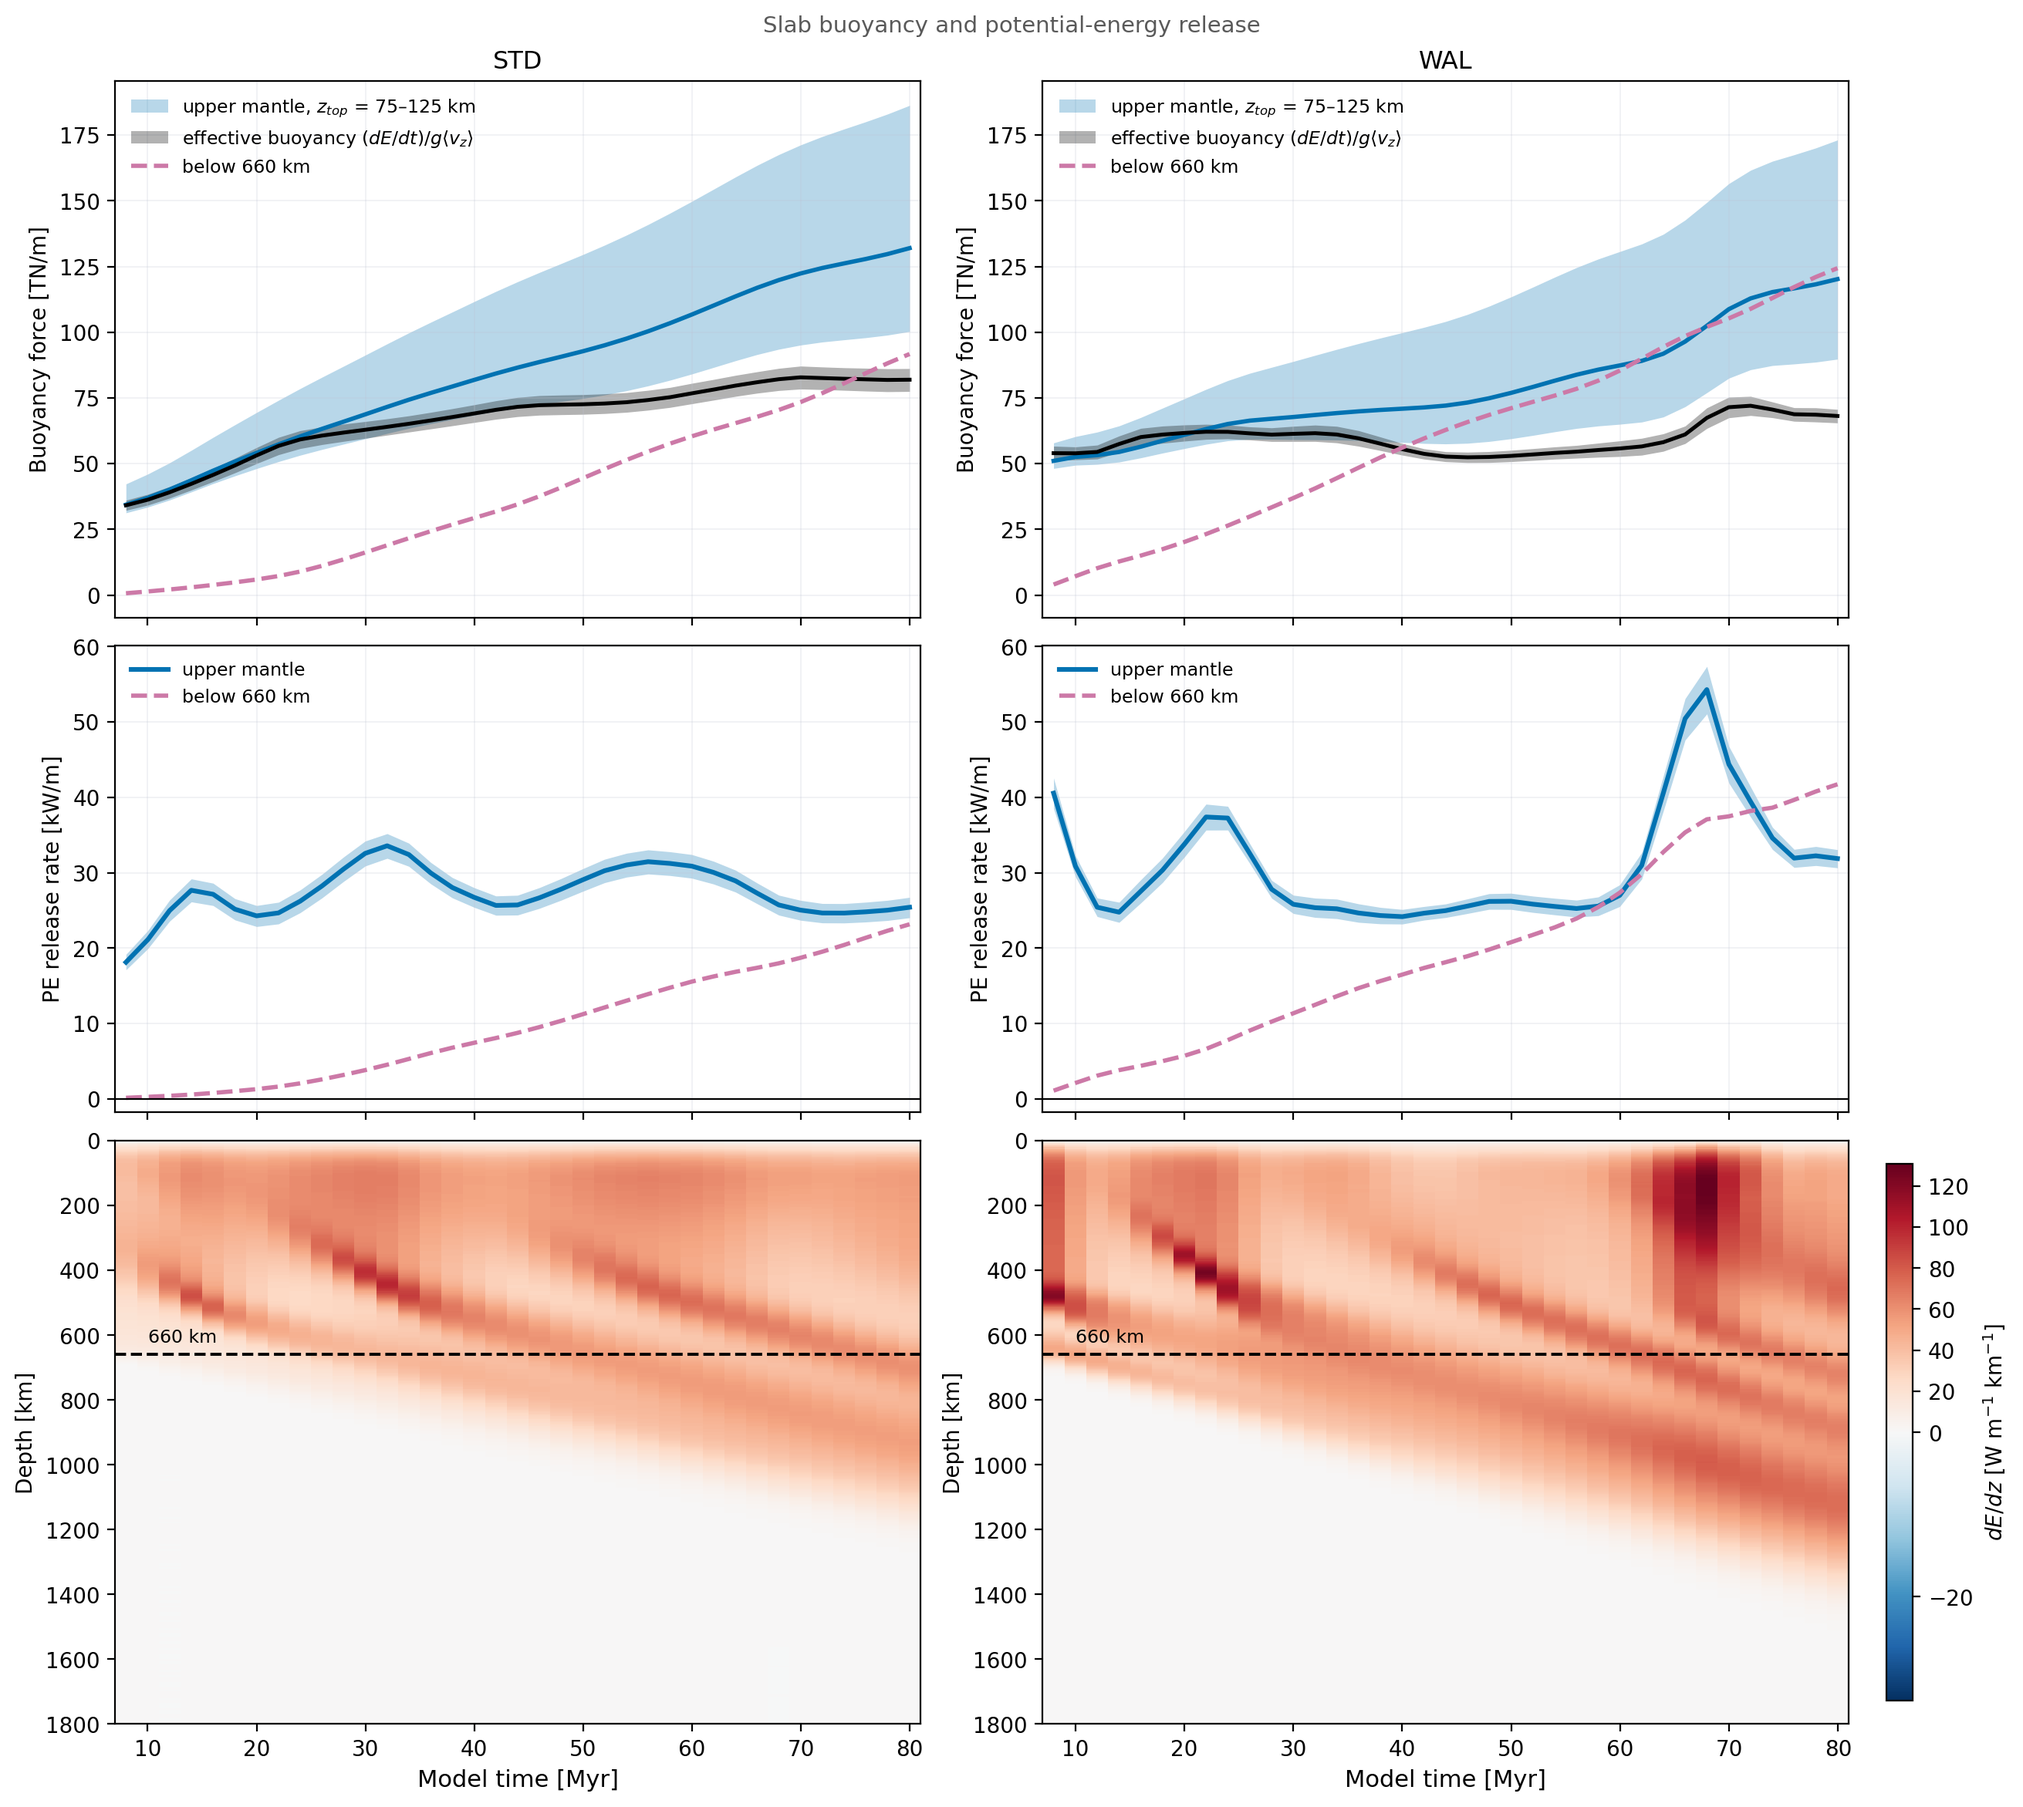
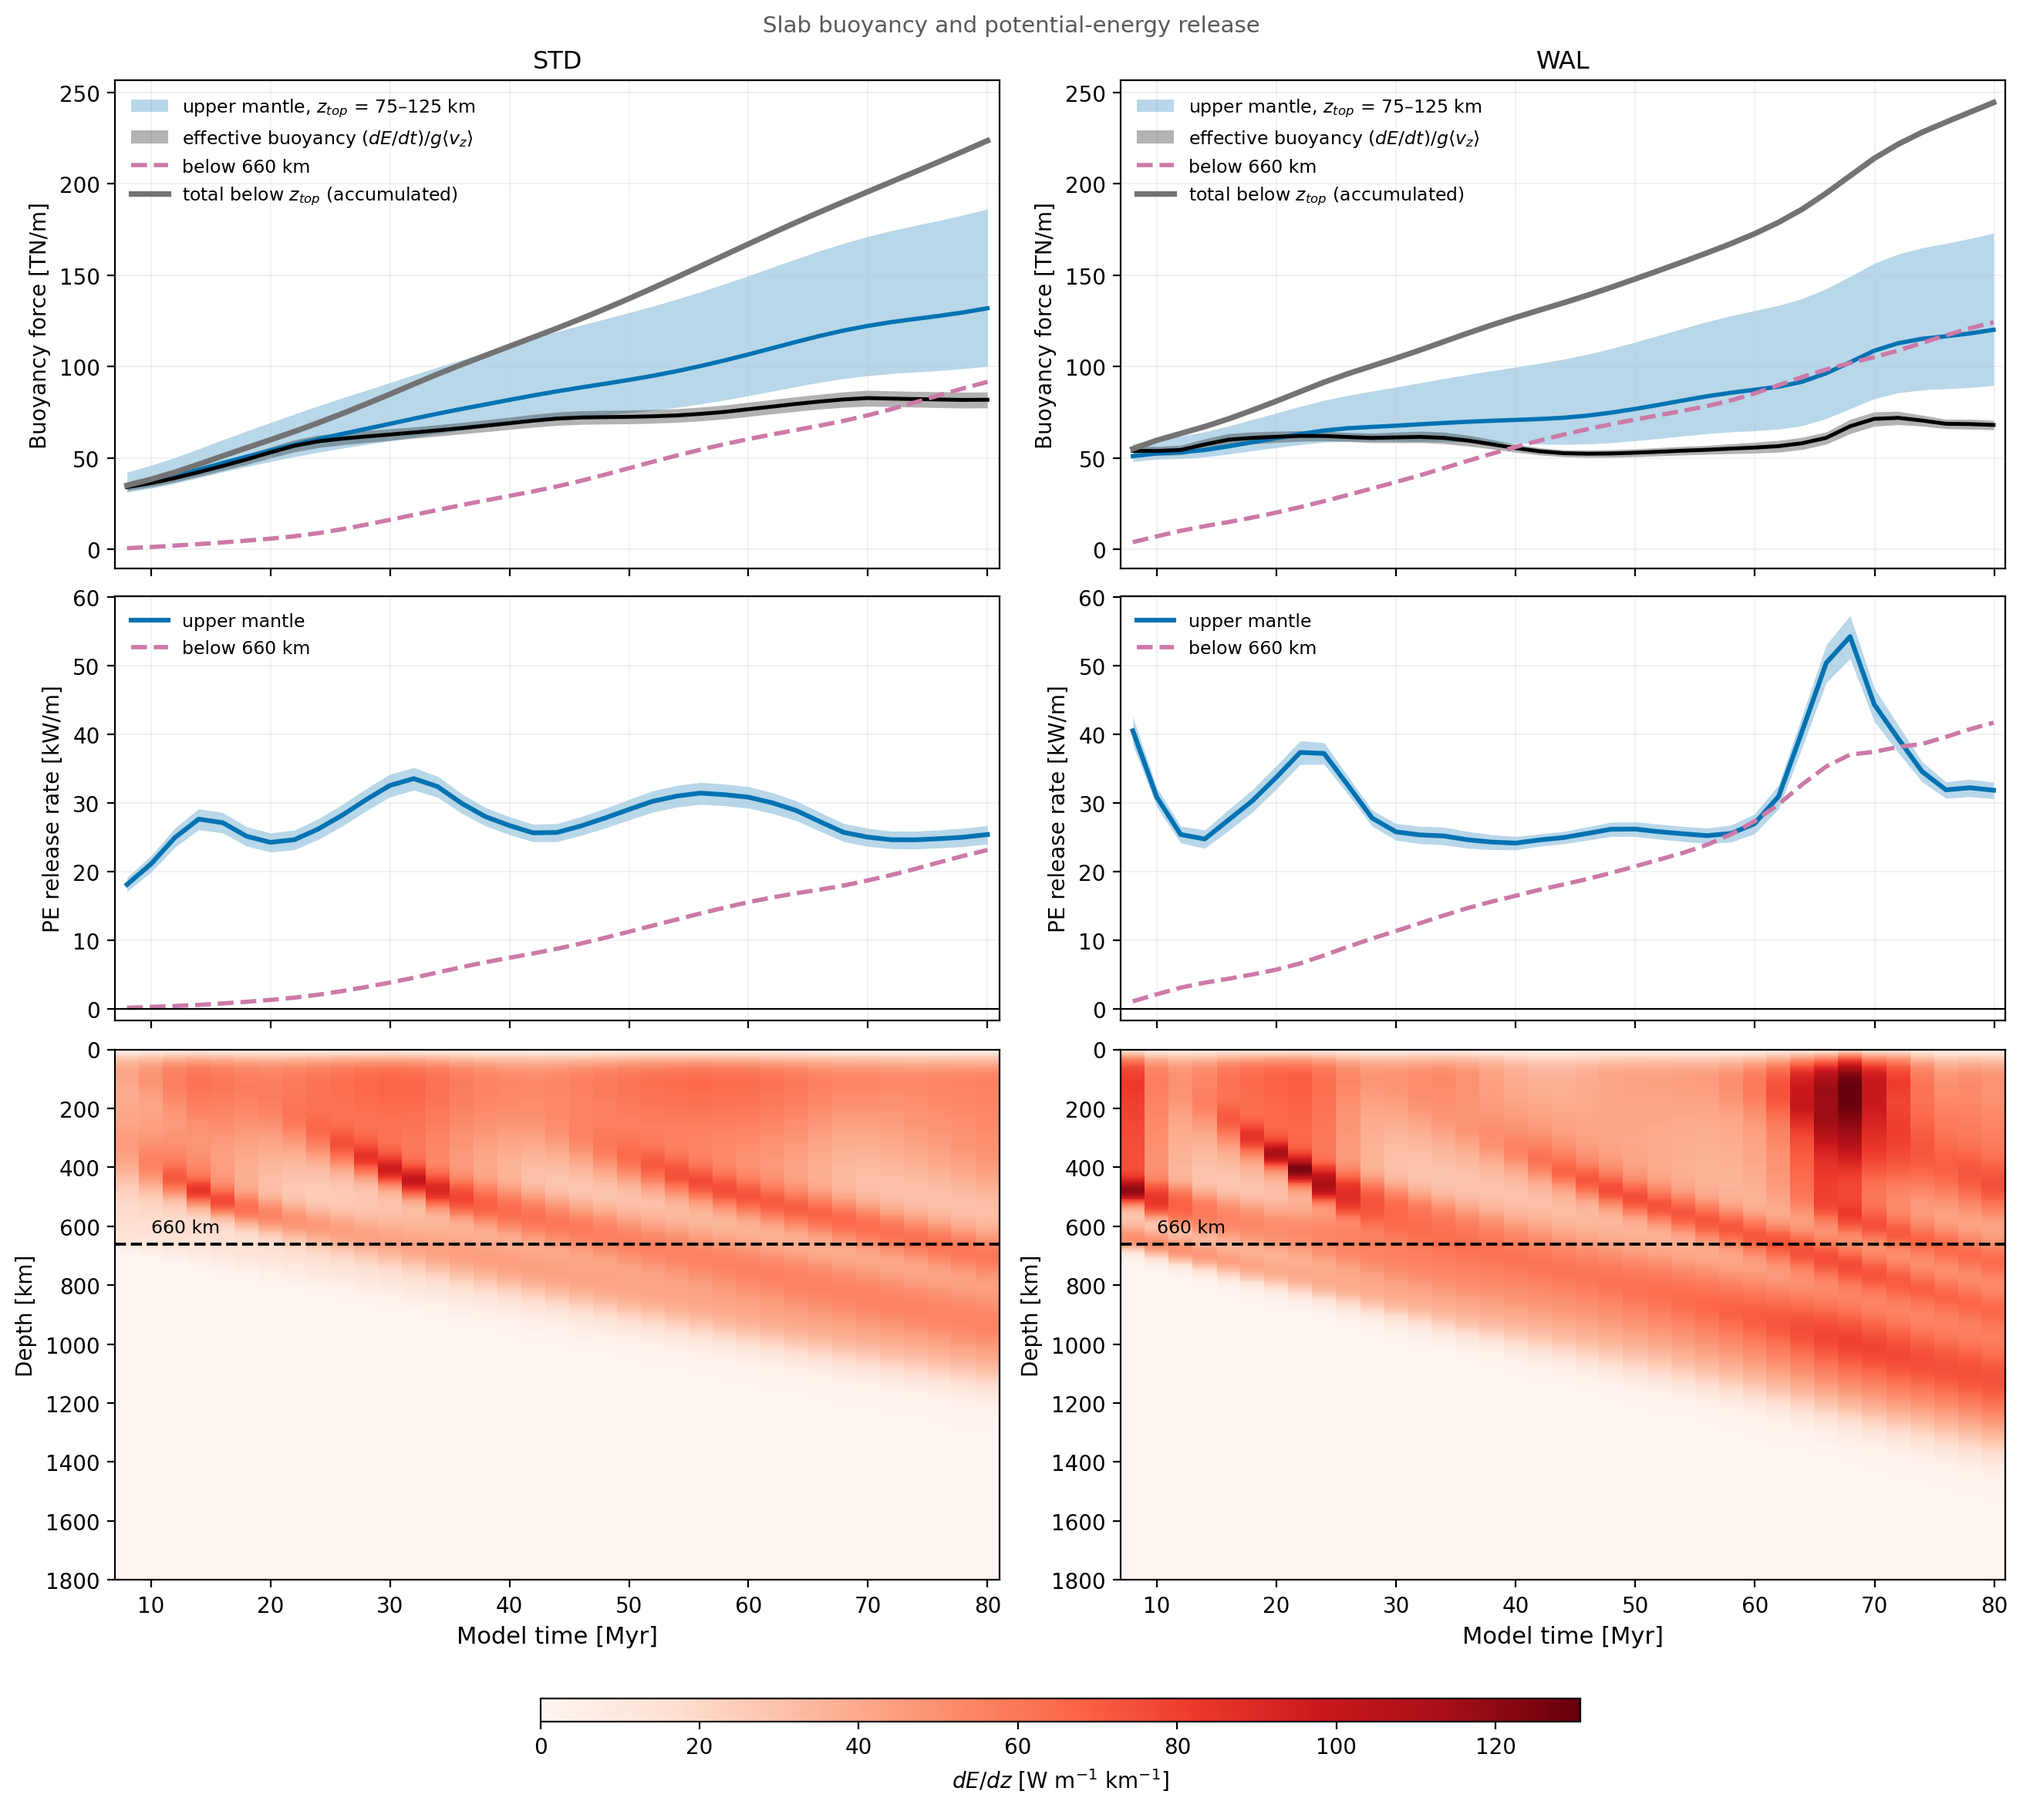
diag_slab_buoyancy: accumulated total, colourbar below, honest colour scale
Dan, 2026-09-24. Three changes.

Row 1 gains the ACCUMULATED total buoyancy below z_top — the stock of
cold material, which is what answers 'which model has put more buoyancy
into the mantle'. STD 35.1 -> 223.7, WAL 55.1 -> 244.5 TN/m.

⚠ It is NOT the time integral of the flux across z_top, and the docstring
now says why: the advective input across 100 km totals 131/133 TN/m
against stock gains of 189/190. Cold material is also created below z_top
in place, by the plate's boundary layer thickening past that depth over
its whole length. A flux across one horizon cannot see a distributed
source.

⚠ The two models accumulate at the SAME rate (gains 188.6 vs 189.5).
WAL's higher total is a head start from reaching 660 km at ~1.5 Myr
against ~4-5. Where they differ is depth: cumulative transfer across
660 km is 90.9 (STD) vs 120.4 (WAL) TN/m, 32 % more.

Colourbar moved beneath the images, horizontal and shared.

Colour scale fixed: it was diverging with a hardcoded vmin = -0.25*max,
showing a negative range the data does not have (STD min -3e-4, WAL
exactly 0). Now sequential from zero, with a guard that warns if a
rebuild ever produces real negatives.

diff --git a/scripts/kinematics/diag_slab_buoyancy.py b/scripts/kinematics/diag_slab_buoyancy.py
@@ -38,7 +38,7 @@ spread across the same z_top range is -10 % / -9 % rather than -40 % /
 translating plate automatically instead of excluding it by hand.
 
   1  buoyancy force: the z_top band (wide), the effective buoyancy (narrow),
-     and the lower mantle.
+     the lower mantle, and the ACCUMULATED total below z_top.
   2  PE release rate, upper and lower mantle, with its own z_top band.
   3  where the release happens: dE/dz against depth and time, 660 marked.
 
@@ -62,6 +62,39 @@ WHAT IT SHOWS.
     only a quarter: the same cold material falls faster. Row 3 localises
     it.
 
+ACCUMULATED BUOYANCY -- AND WHY IT IS NOT A TIME-INTEGRATED FLUX
+(Dan's question, 2026-09-24). The grey curve in row 1 is the total
+buoyancy of cold material below z_top: a STOCK, and the right answer to
+"which model has put more buoyancy into the mantle".
+
+  total below 100 km    STD  35.1 -> 223.7 TN/m   (gain 188.6)
+                        WAL  55.1 -> 244.5 TN/m   (gain 189.5)
+
+⚠ It is tempting to obtain the same thing by integrating the buoyancy
+flux across z_top over time. That is WRONG HERE and the arithmetic says
+so: the advective input across 100 km totals 131 (STD) / 133 (WAL) TN/m
+against stock gains of 189 / 190. The missing third is not an error --
+cold material is also CREATED below z_top in place, by the plate's
+thermal boundary layer thickening past that depth as it ages, over the
+whole plate rather than at the trench. A flux across one horizon cannot
+see a distributed source. Quote the stock.
+
+⚠⚠ THE TWO MODELS ACCUMULATE AT THE SAME RATE. The gains over the run
+are 188.6 and 189.5 TN/m -- indistinguishable. WAL's higher total is a
+head start: its slab reached 660 km at ~1.5 Myr against ~4-5 Myr in STD
+(Cerpa et al.), so it was already 20 TN/m ahead at t = 8. The weak layer
+does not change how much buoyancy enters the mantle.
+
+WHERE THEY DO DIFFER IS THE DEPTH IT GOES TO. dE/dz at a single depth
+has units of buoyancy flux (kg/s^3 = N/m/s), so its time integral is a
+force per unit length; across 660 km that gives the buoyancy each model
+has delivered to the lower mantle:
+
+  cumulative transfer across 660 km   STD  90.9    WAL  120.4 TN/m
+
+WAL moves 32 % more through the transition zone on the same input. That
+is the folding-regime contrast stated as a budget.
+
 ⚠ Delta rho > 0 only, so cold material that RISES contributes negative
 release; this is correct and is why row 2 can dip.
 ⚠ The 5 km grid resolves the ~100 km anomaly with ~20 cells, adequate for
@@ -75,9 +108,10 @@ runs, STD (left) and WAL (right). (a, b) Buoyancy force of cold material
 in the upper mantle, shaded across upper integration depths of 75 to
 125 km, with the effective buoyancy -- the release rate divided by the
 slab's mean sinking rate over 200-660 km -- shaded over the same range,
-and the lower-mantle buoyancy below 660 km. The wide band shows that the
-buoyancy force depends strongly on where the plate is judged to end; the
-narrow one shows that the effective buoyancy does not. (c, d) Rate of
+the lower-mantle buoyancy below 660 km, and in grey the accumulated total
+below the upper integration depth. The wide band shows that the buoyancy
+force depends strongly on where the plate is judged to end; the narrow one
+shows that the effective buoyancy does not. (c, d) Rate of
 potential-energy release for the same regions. (e, f) Release rate per
 unit depth against time, with the 660 km discontinuity marked.
 """
@@ -86,7 +120,6 @@ import numpy as np
 import matplotlib
 matplotlib.use('Agg')
 import matplotlib.pyplot as plt
-from matplotlib.colors import TwoSlopeNorm
 
 _HERE = os.path.dirname(os.path.abspath(__file__))
 sys.path.insert(0, os.path.dirname(_HERE)); sys.path.insert(0, _HERE)
@@ -108,9 +141,18 @@ C_RULE = '#BFC3D1'
 def main():
     s = sgc.load()
     z = s['z_prof']; dz = z[1] - z[0]
-    global NORM
-    _lim = max(np.abs(s[f'{k}_dEdz']).max() for k in ('STD', 'WAL')) * 1e3
-    NORM = TwoSlopeNorm(vcenter=0.0, vmin=-0.25 * _lim, vmax=_lim)
+    # SEQUENTIAL from zero, shared between the models. The release rate is
+    # non-negative in both runs to rounding (STD min -3e-4, WAL exactly 0),
+    # so an earlier diverging scale with a hardcoded negative vmin showed a
+    # negative range that does not exist. The guard below fires if a rebuild
+    # ever produces real negatives -- cold material rising -- at which point
+    # a diverging scale becomes the honest choice again.
+    global VMAX
+    _all = np.concatenate([s[f'{k}_dEdz'].ravel() for k in ('STD', 'WAL')]) * 1e3
+    VMAX = _all.max()
+    if _all.min() < -0.01 * VMAX:
+        print(f'  ** dE/dz has real negatives (min {_all.min():.3f}); '
+              f'switch back to a diverging scale')
     # constrained layout, not tight_layout: the row-3 colourbar spans both
     # panels and tight_layout places such a colourbar inside the axes.
     fig, axes = plt.subplots(3, 2, figsize=(13.0, 11.6), sharex='col',
@@ -127,6 +169,18 @@ def main():
         Pum = np.array([band(E, zt, Z_660) / 1e3 for zt in Z_TOPS])
         Feff = np.array([band(E, zt, Z_660) / vref / 1e12 for zt in Z_TOPS])
         Flm, Plm = band(F, Z_660, z[-1] + dz) / 1e12, band(E, Z_660, z[-1] + dz) / 1e3
+        # ACCUMULATED buoyancy: the stock of cold material below z_top. This
+        # is the quantity that answers "which model has put more buoyancy
+        # into the mantle" -- see the docstring for why it is NOT the time
+        # integral of the flux across z_top.
+        Ftot = np.array([band(F, zt, z[-1] + dz) / 1e12 for zt in Z_TOPS])
+        # Cumulative buoyancy TRANSFERRED across 660 km. dEdz at a single
+        # depth has units of buoyancy flux (kg/s^3 = N/m/s), so its time
+        # integral is a force per unit length.
+        j660 = int(np.argmin(np.abs(z - Z_660)))
+        f660 = E[:, j660]
+        cum660 = np.concatenate([[0.0], np.cumsum(
+            0.5 * (f660[1:] + f660[:-1]) * np.diff(t) * 3.15576e13)]) / 1e12
 
         a0, a1, a2 = (axes[r, col] for r in range(3))
 
@@ -137,6 +191,8 @@ def main():
                         label='effective buoyancy $(dE/dt)/g\\langle v_z\\rangle$')
         a0.plot(t, Feff[1], '-', color=C_EFF, lw=1.8)
         a0.plot(t, Flm, '--', color=C_LM, lw=2.0, label='below 660 km')
+        a0.plot(t, Ftot[1], '-', color='0.45', lw=2.6,
+                label='total below $z_{top}$ (accumulated)')
         a0.set_ylabel('Buoyancy force [TN/m]', fontsize=10)
         a0.set_title(key, fontsize=11.5)
         a0.legend(frameon=False, fontsize=8.5, loc='upper left')
@@ -150,18 +206,19 @@ def main():
 
         # --- row 3: where the release happens -----------------------------
         # dEdz is stored as W/m per METRE of depth; x1000 for per km.
-        # Colour scale is SHARED between the models (computed over both in
-        # main() below) so the panels can be compared directly.
+        # Colour scale is SHARED between the models so the panels compare
+        # directly, and sequential from zero -- see main().
         Ei = E * 1e3
-        im = a2.pcolormesh(t, z / 1e3, Ei.T, cmap='RdBu_r', shading='nearest',
-                           norm=NORM)
+        im = a2.pcolormesh(t, z / 1e3, Ei.T, cmap='Reds', shading='nearest',
+                           vmin=0.0, vmax=VMAX)
         a2.axhline(Z_660 / 1e3, color='k', lw=1.4, ls='--')
         a2.text(t[1], Z_660 / 1e3 - 25, '660 km', fontsize=8.5, va='bottom')
         a2.set_ylim(1800, 0)
         a2.set_ylabel('Depth [km]', fontsize=10)
         a2.set_xlabel('Model time [Myr]', fontsize=11)
         if col == 1:
-            fig.colorbar(im, ax=axes[2, :].tolist(), pad=0.02, shrink=0.92,
+            fig.colorbar(im, ax=axes[2, :].tolist(), orientation='horizontal',
+                         pad=0.09, shrink=0.55, aspect=45,
                          label='$dE/dz$ [W m$^{-1}$ km$^{-1}$]')
 
         for ax in (a0, a1):
@@ -179,7 +236,14 @@ def main():
         print(f'   z_top spread 75->125:  F {100*med(Fum[2]/Fum[0]-1):+.0f} %   '
               f'dE/dt {100*med(Pum[2]/Pum[0]-1):+.0f} %   '
               f'F_eff {100*med(Feff[2]/Feff[0]-1):+.0f} %')
-        rows += [(key, 'F_lower_median_TNm', f'{med(Flm):.2f}'),
+        print(f'   accumulated total below 100 km: {Ftot[1][0]:5.1f} -> '
+              f'{Ftot[1][-1]:5.1f} TN/m (gain {Ftot[1][-1]-Ftot[1][0]:5.1f});  '
+              f'cumulative transfer across 660 km {cum660[-1]:5.1f} TN/m')
+        rows += [(key, 'F_total_below100_start_TNm', f'{Ftot[1][0]:.2f}'),
+                 (key, 'F_total_below100_end_TNm', f'{Ftot[1][-1]:.2f}'),
+                 (key, 'F_total_below100_gain_TNm', f'{Ftot[1][-1]-Ftot[1][0]:.2f}'),
+                 (key, 'cumulative_transfer_across_660_TNm', f'{cum660[-1]:.2f}'),
+                 (key, 'F_lower_median_TNm', f'{med(Flm):.2f}'),
                  (key, 'dEdt_lower_median_kWm', f'{med(Plm):.2f}'),
                  (key, 'vz_ref_200_660_median_cmyr', f'{med(vref)/CM_S:.3f}'),
                  (key, 'ztop_spread_F_percent', f'{100*med(Fum[2]/Fum[0]-1):.1f}'),
